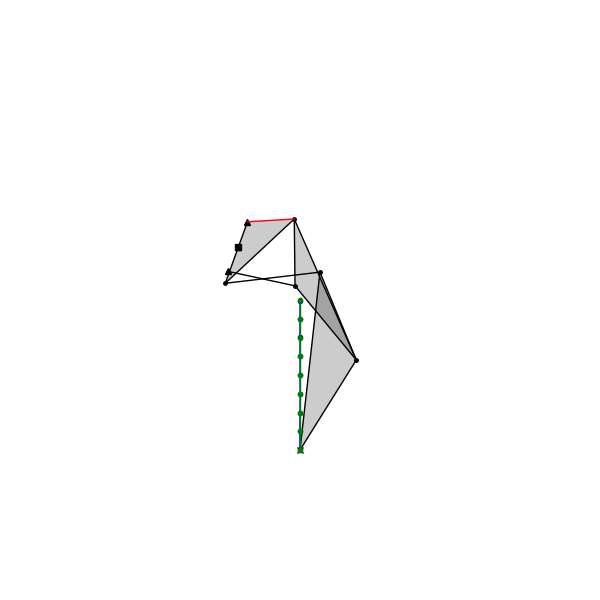
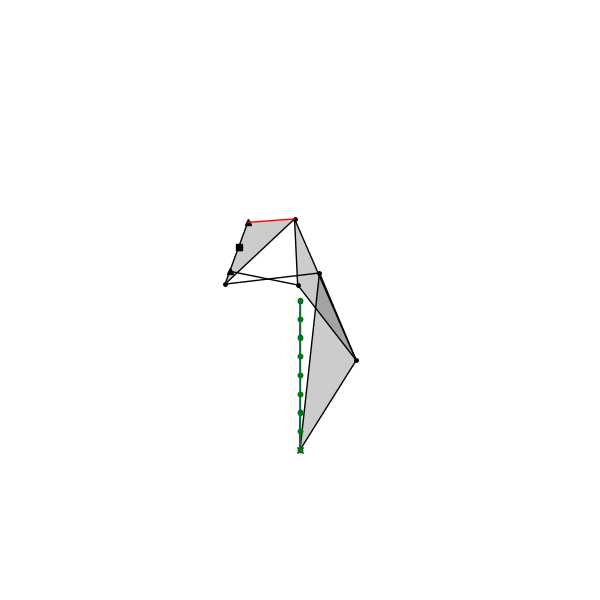
Specified output points first

Changed region(s): [[0.36, 0.36, 0.57, 0.63], [0.57, 0.57, 0.6, 0.6]]

diff --git a/any_linkage/plotter.py b/any_linkage/plotter.py
@@ -71,20 +71,19 @@ class Plotter:
     def on_design_slider_changed(self, val):
         self.d_index = val
         self.q_index = 0
-        steps = []
-        for i in range(self.n_qs):
-            steps.append(np.unique(self.q[self.d_index, :, i]))
         self.q_sliders = []
         for i in range(self.n_qs):
+            qi_rounded = np.round(self.q[self.d_index, :, i], 6)
+            step = np.unique(qi_rounded)
             plt.sca(self.axes_ctrl[i])
             plt.cla()
             slider = Slider(
                 self.axes_ctrl[i],
                 f"q{i}",
-                valmin=np.amin(steps[i]),
-                valmax=np.amax(steps[i]),
-                valinit=np.amin(steps[i]),
-                valstep=steps[i],
+                valmin=np.amin(step),
+                valmax=np.amax(step),
+                valinit=qi_rounded[self.q_index],
+                valstep=step,
                 valfmt="%.2f",
                 orientation="horizontal",
                 initcolor="none",
@@ -105,10 +104,11 @@ class Plotter:
 
     def on_q_slider_changed(self, val):
         qi = np.array([slider.val for slider in self.q_sliders])
-        self.q_index = np.argmin(np.linalg.norm(
-            self.q[self.d_index] - qi, axis=-1,
-        ))
-        self.draw()
+        q_error = np.linalg.norm(self.q[self.d_index] - qi, axis=-1)
+        q_index = np.argmin(q_error)
+        if q_error[q_index] < 1e-6:
+            self.q_index = q_index
+            self.draw()
 
     def draw(self):
         plt.sca(self.ax)

diff --git a/examples/design_two_dof_parallel_leg.py b/examples/design_two_dof_parallel_leg.py
@@ -63,24 +63,23 @@ class TwoDoFParallelLegDesign(designer.Design):
             self.p0[key] = p
 
         grid = torch.meshgrid(
-            torch.linspace(-1, 1, 9),
-            torch.linspace(-1, 1, 9),
+            torch.linspace(-1, 1, 9) - np.pi / 2,
+            torch.linspace(200, 100, 9),
             indexing="ij",
         )
-        self.q = torch.stack([axis.flatten() for axis in grid]).T
+        polar = torch.stack([axis.flatten() for axis in grid]).T
+        self.p_output_d = torch.zeros([polar.shape[0], 2]).to(self.device)
+        self.p_output_d[:, 0] = polar[:, 1] * torch.cos(polar[:, 0])
+        self.p_output_d[:, 1] = polar[:, 1] * torch.sin(polar[:, 0])
 
         jac = torch.tensor([
             [0.5, 0.5],
             [25.0, -25.0],
         ])
-        polar = (
-            torch.matmul(jac, self.q.unsqueeze(-1)).squeeze(-1) +
-            torch.tensor([-np.pi / 2, 150.0])  # [phi, r]
-        )
-        self.p_output_d = torch.zeros([self.q.shape[0], 2]).to(self.device)
-        self.p_output_d[:, 0] = polar[:, 1] * torch.cos(polar[:, 0])
-        self.p_output_d[:, 1] = polar[:, 1] * torch.sin(polar[:, 0])
-
+        self.q = torch.matmul(
+            torch.inverse(jac), polar.unsqueeze(-1),
+        ).squeeze(-1)
+        self.q = self.q - torch.mean(self.q, dim=0)
         self.q = self.q.expand(self.n_designs, *self.q.shape).to(self.device)
 
         self.g = topology.gen_graph(self.plan)

diff --git a/examples/design_two_dof_serial_leg.py b/examples/design_two_dof_serial_leg.py
@@ -60,24 +60,23 @@ class TwoDoFSerialLegDesign(designer.Design):
             self.p0[key] = p
 
         grid = torch.meshgrid(
-            torch.linspace(-1, 1, 9),
-            torch.linspace(-1, 1, 9),
+            torch.linspace(-1, 1, 9) - np.pi / 2,
+            torch.linspace(200, 100, 9),
             indexing="ij",
         )
-        self.q = torch.stack([axis.flatten() for axis in grid]).T
+        polar = torch.stack([axis.flatten() for axis in grid]).T
+        self.p_output_d = torch.zeros([polar.shape[0], 2]).to(self.device)
+        self.p_output_d[:, 0] = polar[:, 1] * torch.cos(polar[:, 0])
+        self.p_output_d[:, 1] = polar[:, 1] * torch.sin(polar[:, 0])
 
         jac = torch.tensor([
             [1.0, 0.0],
             [0.0, 50.0],
         ])
-        polar = (
-            torch.matmul(jac, self.q.unsqueeze(-1)).squeeze(-1) +
-            torch.tensor([-np.pi / 2, 150.0])  # [phi, r]
-        )
-        self.p_output_d = torch.zeros([self.q.shape[0], 2]).to(self.device)
-        self.p_output_d[:, 0] = polar[:, 1] * torch.cos(polar[:, 0])
-        self.p_output_d[:, 1] = polar[:, 1] * torch.sin(polar[:, 0])
-
+        self.q = torch.matmul(
+            torch.inverse(jac), polar.unsqueeze(-1),
+        ).squeeze(-1)
+        self.q = self.q - torch.mean(self.q, dim=0)
         self.q = self.q.expand(self.n_designs, *self.q.shape).to(self.device)
 
         self.g = topology.gen_graph(self.plan)

diff --git a/examples/design_one_dof_linear_leg.py b/examples/design_one_dof_linear_leg.py
@@ -56,12 +56,13 @@ class OneDoFLinearLegDesign(designer.Design):
             self.params.append(p)
             self.p0[key] = p
 
-        self.q = torch.linspace(-1, 1, 9).unsqueeze(-1)
+        y = torch.linspace(-200, -100, 9)
+        self.p_output_d = torch.zeros([y.shape[0], 2]).to(self.device)
+        self.p_output_d[:, 1] = y
 
-        jac = 50
-        self.p_output_d = torch.zeros([self.q.shape[0], 2]).to(self.device)
-        self.p_output_d[:, 1] = self.q.squeeze(-1) * jac - 150
-
+        jac = 50.0
+        self.q = 1 / jac * y.unsqueeze(-1)
+        self.q = self.q - torch.mean(self.q, dim=0)
         self.q = self.q.expand(self.n_designs, *self.q.shape).to(self.device)
 
         self.g = topology.gen_graph(self.plan)
